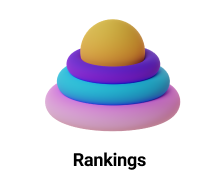
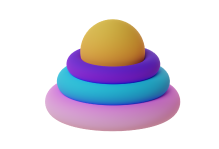
Raking Screen Ui Compeleted

Changed region(s): [[0.1918, 0.1074, 0.8219, 0.9933]]

diff --git a/src/screens/RankingScreen/index.tsx b/src/screens/RankingScreen/index.tsx
@@ -1,12 +1,52 @@
 import React from 'react';
-import {View, Text} from 'react-native';
+import {View, Text, Image, FlatList } from 'react-native';
+import UserRankingItem from '../../components/UserRankingItem/Index';
+import styles from './styles';
+const image = require('../../../assets/images/Saly-20.png');
+
+const MarketCoins = [
+    {
+        id: '1',
+        name: 'virtual Dollars',
+        image: 'https://notjustdev-dummy.s3.us-east-2.amazonaws.com/avatars/1.jpg',
+        netWorth: 65899,
+    },
+    {
+        id: '2',
+        name: 'BitCoin',
+        image: 'https://notjustdev-dummy.s3.us-east-2.amazonaws.com/avatars/1.jpg',
+        netWorth: 5899,
+    },
+    {
+        id: '3',
+        name: 'Etherium',
+        image: 'https://notjustdev-dummy.s3.us-east-2.amazonaws.com/avatars/1.jpg',
+        netWorth: 99,
+    },
+
+
+]
 
 const RankingScreen = () => {
-     return (
-         <View style={{flex: 1, justifyContent: 'center', alignItems: 'center'}}>
-             <Text>RankingScreen Component</Text>
-         </View>
-     )
+    return (
+        <View style={styles.root}>
+       
+           <FlatList 
+           style={{width: '100%'}}
+               data={MarketCoins} 
+               renderItem={({item, index}) => <UserRankingItem user={item} place={index + 1}/>}
+               showsVerticalScrollIndicator={false}
+               ListHeaderComponentStyle={{alignItems: 'center'}}
+               ListHeaderComponent={()=> (
+                   <>
+                       <Image style={styles.image} source={image} />
+                       <Text style={styles.label}>Rankings</Text>
+                   </>
+               )}
+           />
+
+        </View>
+    )
 }
 
 export default RankingScreen;

diff --git a/src/components/UserRankingItem/Index.tsx b/src/components/UserRankingItem/Index.tsx
@@ -1,0 +1,32 @@
+import React from 'react';
+import {View, Text, Image} from 'react-native';
+import styles from './styles.js';
+
+export interface UserrankingItemProps {
+    user: {
+        image: string,
+        name: string,
+        netWorth: number,
+    },
+    place: number,
+}
+
+const UserRankingItem = (props : UserrankingItemProps) => {
+    const {user: {image,name,netWorth},place} = props;
+     return (
+         <View style={styles.root}>
+            <View style={styles.left}>
+                <Text style={styles.place}>{place}</Text>
+                <Image style={styles.image} source={{ uri: image}} />
+                <View>
+                    <Text style={styles.name}>{name}</Text>
+                </View>
+            </View>
+            <View style={{alignItems: 'flex-end'}}>
+                    <Text style={styles.value}>${netWorth}</Text>
+            </View>
+         </View>
+     )
+}
+
+export default UserRankingItem;

diff --git a/src/screens/RankingScreen/styles.js b/src/screens/RankingScreen/styles.js
@@ -1,0 +1,25 @@
+import { StyleSheet } from 'react-native';
+
+const styles = StyleSheet.create({
+    root:{
+        padding: 20,
+        alignItems: 'center',
+        flex: 1,
+        backgroundColor: 'white'
+    },
+    image:{
+        height: 200,
+        resizeMode: 'contain',
+    },
+    label:{
+        fontSize: 18,
+        fontWeight: 'bold',
+    },
+    balance:{
+        fontSize: 36,
+        fontWeight: 'bold',
+    }
+
+});
+
+export default styles;

diff --git a/src/components/UserRankingItem/styles.js b/src/components/UserRankingItem/styles.js
@@ -29,6 +29,10 @@ const styles = StyleSheet.create({
     fontWeight: '600',
     marginBottom: 5,
   },
+  place: {
+    fontSize: 18,
+    width: 30
+  }
 });
 
 export default styles;
